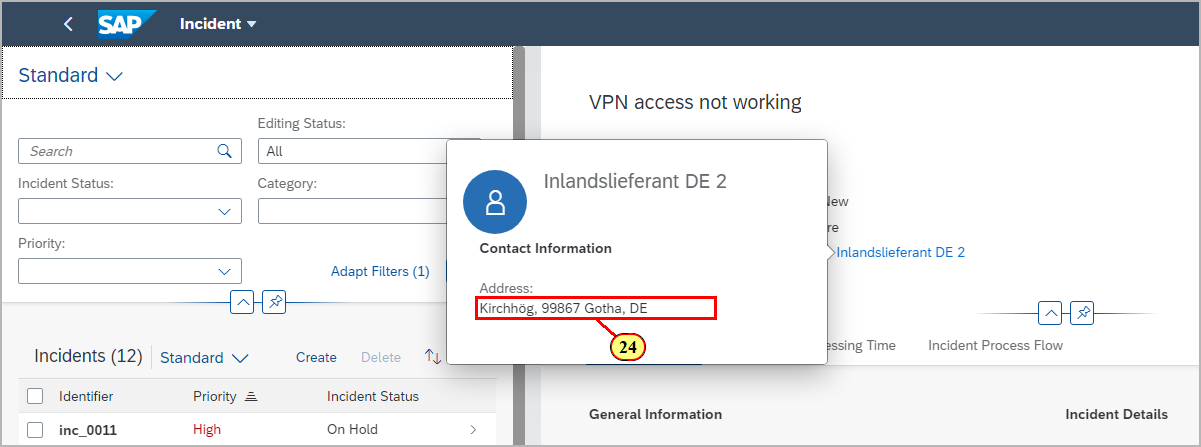
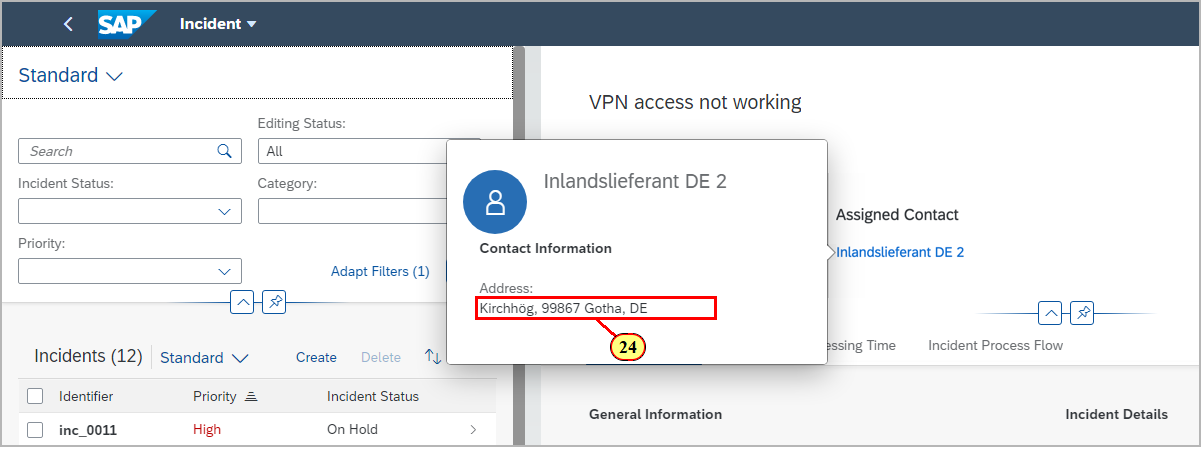
exercise 7 completed

diff --git a/exercises/ex7/README.md b/exercises/ex7/README.md
@@ -166,18 +166,16 @@ annotate service.Individual with @(Communication.Contact : {
 
 To visualize the contact card in the object pages header, you need to add an additional annotation.\
 Open file **app/annotation.cds**.\
-Locate **FieldGroup #HeaderGeneralInformation**.\
-(17) Put a comma after line **{Value : category_code}** and enter the following code:
+Locate section **header facet enhancement**.\
+(17) Enter the following code:
 
 ```js
-,
     {
-        $Type  : 'UI.DataFieldForAnnotation',
+        $Type : 'UI.ReferenceFacet',
+        Label : '{i18n>AssignedContact}',
         Target : 'assignedIndividual/@Communication.Contact',
-        Label  : '{i18n>AssignedContact}'
     }
 ```
-
 
 ![](./images/image18.png)
 
